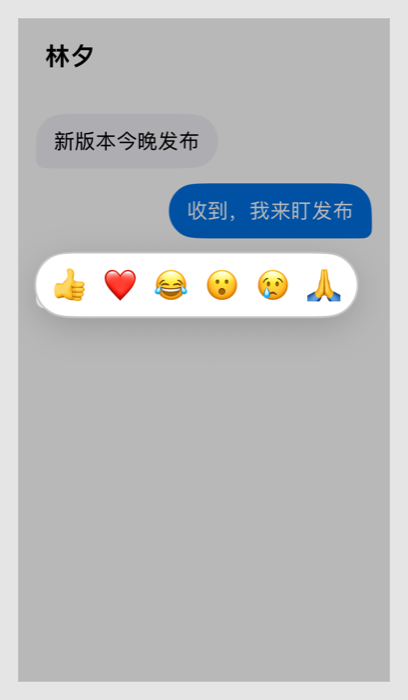
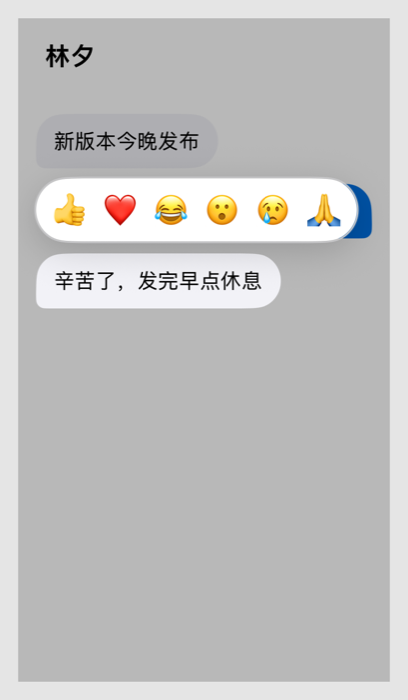
fix: 修正表情回应 SwiftUI 视图里表情条的位置
表情条落在被长按的气泡上，没有在它上方 8pt。原因是 overlay 里的
alignmentGuide 没有生效，改成显式偏移。修后在模拟器重测一致，
提示词没有改。README 和验证记录同步更新。

Changed region(s): [[0.0882, 0.24, 0.8824, 0.45]]

diff --git a/docs/.vitepress/theme/data/controlPrompts.ts b/docs/.vitepress/theme/data/controlPrompts.ts
@@ -960,7 +960,7 @@ const verifyLog: Record<string, Verify> = {
 const D2 = '2026-11-10'
 const SWIFTUI = {
   'swipe-reply': '2026-11-11 在 iOS 模拟器里用触摸操作过：拖动、过阈值、松手、发送、短距离拖动，一致。',
-  reaction: '2026-11-11 在 iOS 模拟器里用触摸操作过：长按打开、选表情、短按，只有一处不一致——表情条盖在被长按的气泡上，没有在它上方 8pt。',
+  reaction: '2026-11-11 在 iOS 模拟器里用触摸操作过：长按打开、选表情、短按，一致。第一次测到表情条盖在被长按的气泡上，是实现的问题，修后重测一致，提示词没改。',
   stories: '2026-11-11 在 iOS 模拟器里用触摸操作过：自动推进、点右侧切换、按住隐藏顶部，一致。',
   zoom: '2026-11-11 在 iOS 模拟器里用触摸操作过：放大、拖动、松手关闭，一致。',
 }

diff --git a/scripts/verify-prompts/swiftui/App/ReactionDemo.swift b/scripts/verify-prompts/swiftui/App/ReactionDemo.swift
@@ -318,8 +318,9 @@ struct ReactionDemo: View {
         .overlay(alignment: msg.mine ? .topTrailing : .topLeading) {
             if openID == msg.id {
                 bar(msg)
-                    // 条的底边距气泡顶部 8pt
-                    .alignmentGuide(.top) { $0[.bottom] + 8 }
+                    // 条的底边距气泡顶部 8pt：条高 42（上下 padding 5 + 表情 32），整体上移 42 + 8
+                    // 原先用 alignmentGuide(.top) 在这个 overlay 里没有生效，条落在气泡上，改成显式偏移
+                    .offset(y: -(42 + 8))
                     .transition(barTransition(mine: msg.mine))
             }
         }

diff --git a/scripts/verify-prompts/swiftui/README.md b/scripts/verify-prompts/swiftui/README.md
@@ -21,9 +21,9 @@
 | 滑动回复 | 向左拖、过阈值、松手、发送、短距离拖动 | 一致。气泡跟手，箭头渐显，过阈值变强调色，松手后引用条出现，发送后新气泡带引用；短距离松手不出现引用条 |
 | 快拍分段进度 | 自动推进、点右侧、按住 | 一致。分段进度推进，点右侧切到下一条，按住时顶部区域隐藏 |
 | 图片放大查看 | 点缩略图、全屏、向下拖动、松手 | 一致。放大到全屏，拖动时缩小、遮罩变淡并透出网格，松手关闭回到网格 |
-| 长按表情回应 | 长按、选表情、短按 | **有一处不一致**：长按打开的表情条盖在被长按的气泡上，而不是在它上方 8pt。选表情后的徽章、短按不打开都正常 |
+| 长按表情回应 | 长按、选表情、短按 | 一致（修过一次）。第一次测到表情条盖在被长按的气泡上，没有在它上方 8pt，修后重测：条在气泡上方 8pt，被长按的气泡保持原亮度，选表情后徽章出现，短按不打开 |
 
-不一致的这一处，提示词写得很明确（「底边距气泡顶部 8px」），所以更可能是实现的问题。agent 自己也提到遮罩和表情条用零高度容器溢出实现，不确定布局。这一项没有修，也没有因此改提示词。
+那一处不一致的原因在实现：提示词写得很明确（「底边距气泡顶部 8px」），agent 用 `alignmentGuide(.top)` 想把条放到气泡上方，但在这个 overlay 里没有生效。改成显式的 `.offset(y: -(42 + 8))` 后一致。提示词没有改。
 
 ## 没验证的
 
